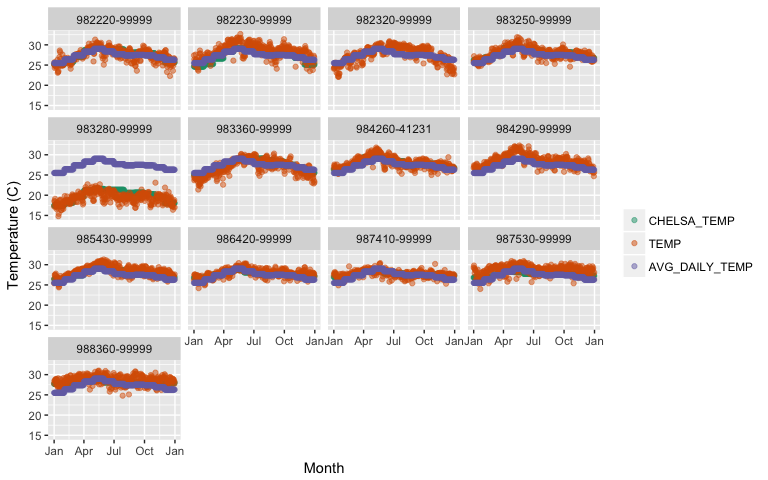
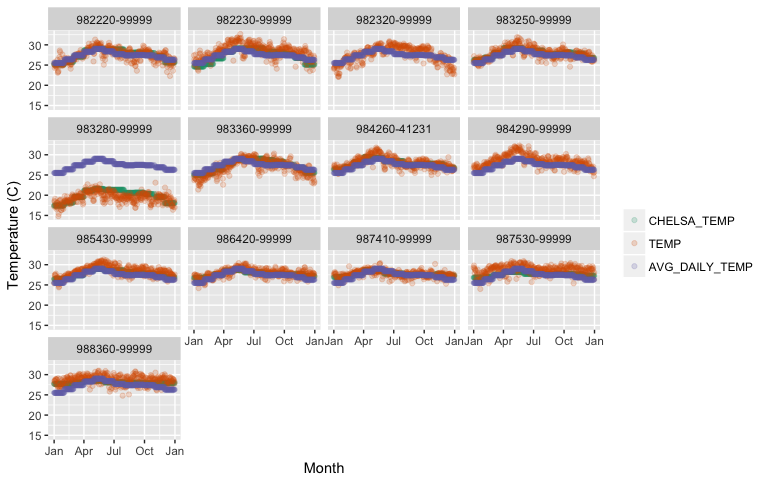
Rebuild README.md

diff --git a/README.md b/README.md
@@ -16,24 +16,43 @@ version](http://www.r-pkg.org/badges/version/GSODR)](https://cran.r-project.org/
 Introduction to GSODR
 =====================
 
-The GSODR package is an R package that provides a function that
-automates downloading and cleaning of data from the "[Global Surface
-Summary of the Day
-(GSOD)](https://data.noaa.gov/dataset/global-surface-summary-of-the-day-gsod)"
-weather station data provided by the US National Climatic Data Center
-(NCDC). Data are formatted for easy use in R, returned as a `data.frame`
-object in R summarising each year by station, with options to save as a
-Comma Separated Value (CSV) file or as a spatial GeoPackage (GPKG) file,
-implemented by most major GIS softwares.
+The GSOD or [Global Surface Summary of the Day
+(GSOD)](https://data.noaa.gov/dataset/global-surface-summary-of-the-day-gsod)
+data provided by the US National Climatic Data Center (NCDC) are a
+valuable source of weather data with global coverage. However, the data
+files are cumbersome and difficult to work with. The GSODR package aims
+to make it easy to find, tranfer and format the data you need for use in
+analysis. The GSODR package provides three main functions for
+facilitating this:
 
-Station files are individually checked for number of missing days to
-assure data quality, stations with too many missing observations are
-omitted. All units are converted to International System of Units (SI),
-e.g., inches to millimetres and Fahrenheit to Celsius.
+-   `get_GSOD` - the main function that will query and transfer files
+    from the FTP server, reformat them and return a data.frame in R or
+    save a file to disk  
+-   `reformat_GSOD` - the workhorse, this function takes individual
+    station files on the local disk and reformats them returning a
+    data.frame in R  
+-   `nearest_stations` - this function returns a dataframe containing a
+    list of stations and their metadata that fall within the given
+    radius of a point  
+    specified by the user
+
+When reformatting data either with `get_GSOD` or `reformat_GSOD`, all
+units are converted to International System of Units (SI), e.g., inches
+to millimetres and Fahrenheit to Celsius. File output can be saved as a
+Comma Separated Value (CSV) file or in a spatial GeoPackage (GPKG) file,
+implemented by most major GIS software, summarising each year by
+station, which also includes vapour pressure and relative humidity
+variables calculated from existing data in GSOD.
 
 Additional data are calculated by this R package using the original data
 and included in the final data. These include vapour pressure (ea and
 es) and relative humidity.
+
+For more information see the description of the data provided by NCDC,
+<http://www7.ncdc.noaa.gov/CDO/GSOD_DESC.txt>.
+
+Other Sources of Weather Data
+-----------------------------
 
 There are several other sources of weather data and ways of retrieving
 them through R. In particular, the excellent
@@ -95,53 +114,57 @@ library(GSODR)
 
 Tbar <- get_GSOD(years = 2010, station = "955510-99999")
 #> 
-#> Downloading the station file(s) now.
+#> Checking requested station file for availability on server.
+#> Starting data file processing
 #> 
-#> Finished downloading file. Parsing the station file(s) now.
+  |                                                                       
+  |                                                                 |   0%
+  |                                                                       
+  |=================================================================| 100%
 
 head(Tbar)
-#>     USAF  WBAN        STNID          STN_NAME CTRY STATE CALL    LAT
-#> 1 955510 99999 955510-99999 TOOWOOMBA AIRPORT   AS  <NA> <NA> -27.55
-#> 2 955510 99999 955510-99999 TOOWOOMBA AIRPORT   AS  <NA> <NA> -27.55
-#> 3 955510 99999 955510-99999 TOOWOOMBA AIRPORT   AS  <NA> <NA> -27.55
-#> 4 955510 99999 955510-99999 TOOWOOMBA AIRPORT   AS  <NA> <NA> -27.55
-#> 5 955510 99999 955510-99999 TOOWOOMBA AIRPORT   AS  <NA> <NA> -27.55
-#> 6 955510 99999 955510-99999 TOOWOOMBA AIRPORT   AS  <NA> <NA> -27.55
-#>       LON ELEV_M ELEV_M_SRTM_90m    BEGIN      END YEARMODA YEAR MONTH DAY
-#> 1 151.917    642             635 19980301 20161021 20100101 2010    01  01
-#> 2 151.917    642             635 19980301 20161021 20100102 2010    01  02
-#> 3 151.917    642             635 19980301 20161021 20100103 2010    01  03
-#> 4 151.917    642             635 19980301 20161021 20100104 2010    01  04
-#> 5 151.917    642             635 19980301 20161021 20100105 2010    01  05
-#> 6 151.917    642             635 19980301 20161021 20100106 2010    01  06
-#>   YDAY TEMP TEMP_CNT DEWP DEWP_CNT    SLP SLP_CNT   STP STP_CNT VISIB
-#> 1    1 21.2        8 17.9        8 1013.4       8 942.0       8    NA
-#> 2    2 23.2        8 19.4        8 1010.5       8 939.3       8    NA
-#> 3    3 21.4        8 18.9        8 1012.3       8 940.9       8  14.3
-#> 4    4 18.9        8 16.4        8 1015.7       8 944.1       8  23.3
-#> 5    5 20.5        8 16.4        8 1015.5       8 944.0       8    NA
-#> 6    6 21.9        8 18.7        8 1013.7       8 942.3       8    NA
-#>   VISIB_CNT WDSP WDSP_CNT MXSPD GUST   MAX MAX_FLAG   MIN MIN_FLAG PRCP
-#> 1         0  2.2        8   6.7   NA 25.78          17.78           1.5
-#> 2         0  1.9        8   5.1   NA 26.50          19.11           0.3
-#> 3         6  3.9        8  10.3   NA 28.72          19.28        * 19.8
-#> 4         4  4.5        8  10.3   NA 24.11          16.89        *  1.0
-#> 5         0  3.9        8  10.8   NA 24.61          16.72           0.3
-#> 6         0  3.2        8   7.7   NA 26.78          17.50           0.0
-#>   PRCP_FLAG SNDP I_FOG I_RAIN_DRIZZLE I_SNOW_ICE I_HAIL I_THUNDER
-#> 1         G   NA     0              0          0      0         0
-#> 2         G   NA     0              0          0      0         0
-#> 3         G   NA     1              1          0      0         0
-#> 4         G   NA     0              0          0      0         0
-#> 5         G   NA     0              0          0      0         0
-#> 6         G   NA     1              0          0      0         0
-#>   I_TORNADO_FUNNEL  EA  ES   RH
-#> 1                0 2.1 2.5 84.0
-#> 2                0 2.3 2.8 82.1
-#> 3                0 2.2 2.5 88.0
-#> 4                0 1.9 2.2 86.4
-#> 5                0 1.9 2.4 79.2
-#> 6                0 2.2 2.6 84.6
+#>    WBAN        STNID          STN_NAME CTRY STATE CALL    LAT     LON
+#> 1 99999 955510-99999 TOOWOOMBA AIRPORT   AS  <NA> <NA> -27.55 151.917
+#> 2 99999 955510-99999 TOOWOOMBA AIRPORT   AS  <NA> <NA> -27.55 151.917
+#> 3 99999 955510-99999 TOOWOOMBA AIRPORT   AS  <NA> <NA> -27.55 151.917
+#> 4 99999 955510-99999 TOOWOOMBA AIRPORT   AS  <NA> <NA> -27.55 151.917
+#> 5 99999 955510-99999 TOOWOOMBA AIRPORT   AS  <NA> <NA> -27.55 151.917
+#> 6 99999 955510-99999 TOOWOOMBA AIRPORT   AS  <NA> <NA> -27.55 151.917
+#>   ELEV_M ELEV_M_SRTM_90m    BEGIN      END YEARMODA YEAR MONTH DAY YDAY
+#> 1    642             635 19980301 20161121 20100101 2010    01  01    1
+#> 2    642             635 19980301 20161121 20100102 2010    01  02    2
+#> 3    642             635 19980301 20161121 20100103 2010    01  03    3
+#> 4    642             635 19980301 20161121 20100104 2010    01  04    4
+#> 5    642             635 19980301 20161121 20100105 2010    01  05    5
+#> 6    642             635 19980301 20161121 20100106 2010    01  06    6
+#>   TEMP TEMP_CNT DEWP DEWP_CNT    SLP SLP_CNT   STP STP_CNT VISIB VISIB_CNT
+#> 1 21.2        8 17.9        8 1013.4       8 942.0       8    NA         0
+#> 2 23.2        8 19.4        8 1010.5       8 939.3       8    NA         0
+#> 3 21.4        8 18.9        8 1012.3       8 940.9       8  14.3         6
+#> 4 18.9        8 16.4        8 1015.7       8 944.1       8  23.3         4
+#> 5 20.5        8 16.4        8 1015.5       8 944.0       8    NA         0
+#> 6 21.9        8 18.7        8 1013.7       8 942.3       8    NA         0
+#>   WDSP WDSP_CNT MXSPD GUST   MAX MAX_FLAG   MIN MIN_FLAG PRCP PRCP_FLAG
+#> 1  2.2        8   6.7   NA 25.78          17.78           1.5         G
+#> 2  1.9        8   5.1   NA 26.50          19.11           0.3         G
+#> 3  3.9        8  10.3   NA 28.72          19.28        * 19.8         G
+#> 4  4.5        8  10.3   NA 24.11          16.89        *  1.0         G
+#> 5  3.9        8  10.8   NA 24.61          16.72           0.3         G
+#> 6  3.2        8   7.7   NA 26.78          17.50           0.0         G
+#>   SNDP I_FOG I_RAIN_DRIZZLE I_SNOW_ICE I_HAIL I_THUNDER I_TORNADO_FUNNEL
+#> 1   NA     0              0          0      0         0                0
+#> 2   NA     0              0          0      0         0                0
+#> 3   NA     1              1          0      0         0                0
+#> 4   NA     0              0          0      0         0                0
+#> 5   NA     0              0          0      0         0                0
+#> 6   NA     1              0          0      0         0                0
+#>    EA  ES   RH
+#> 1 2.1 2.5 84.0
+#> 2 2.3 2.8 82.1
+#> 3 2.2 2.5 88.0
+#> 4 1.9 2.2 86.4
+#> 5 1.9 2.4 79.2
+#> 6 2.2 2.6 84.6
 ```
 
 #### Example 2 - Download GSOD data and generate agroclimatology files
@@ -149,30 +172,28 @@ head(Tbar)
 For years 2010 and 2011, download data and create the files,
 GSOD-agroclimatology-2010.csv and GSOD-agroclimatology-2011.csv, in the
 user's home directory with a maximum of five missing days per weather
-station allowed. Use parallel processing to run the process more
-quickly.
+station allowed.
 
 ``` r
 
 get_GSOD(years = 2010:2011, dsn = "~/", filename = "GSOD-agroclimatology",
-         agroclimatology = TRUE, max_missing = 5, threads = 3)
+         agroclimatology = TRUE, max_missing = 5)
 ```
 
-#### Example 3 - Download data for a single country and plot it
+#### Example 3 - Download and plot data for a single country
 
 Download data for Philippines for year 2010 and generate a spatial, year
-summary file, PHL-2010.gpkg, in the user's home directory with a maximum
-of five missing days per station allowed and no CSV file.
+summary file, PHL-2010.gpkg, in the user's home directory.
 
 ``` r
-get_GSOD(years = 2010, country = "Philippines", dsn = "~/", filename = "PHL",
-         GPKG = TRUE, CSV = FALSE, threads = 2)
+get_GSOD(years = 2010, country = "Philippines", dsn = "~/",
+         filename = "PHL-2010", GPKG = TRUE, max_missing = 5)
 ```
 
 ``` r
 library(rgdal)
 #> Loading required package: sp
-#> rgdal: version: 1.1-10, (SVN revision 622)
+#> rgdal: version: 1.2-4, (SVN revision 643)
 #>  Geospatial Data Abstraction Library extensions to R successfully loaded
 #>  Loaded GDAL runtime: GDAL 1.11.5, released 2016/07/01
 #>  Path to GDAL shared files: /usr/local/Cellar/gdal/1.11.5_1/share/gdal
@@ -188,7 +209,7 @@ layers <- ogrListLayers(dsn = path.expand("~/PHL-2010.gpkg"))
 pnts <- readOGR(dsn = path.expand("~/PHL-2010.gpkg"), layers[1])
 #> OGR data source with driver: GPKG 
 #> Source: "/Users/asparks/PHL-2010.gpkg", layer: "GSOD"
-#> with 2190 features
+#> with 4703 features
 #> It has 46 fields
 
 # Plot results in Google Earth as a spacetime object:
@@ -249,7 +270,7 @@ df_melt <- na.omit(melt(temp[, c("STNID", "DATE", "CHELSA_TEMP", "TEMP", "AVG_DA
                         id = c("DATE", "STNID")))
 
 ggplot(df_melt, aes(x = DATE, y = value)) +
-  geom_point(aes(color = variable), alpha = 0.5) +
+  geom_point(aes(color = variable), alpha = 0.2) +
   scale_x_date(date_labels = "%b") +
   ylab("Temperature (C)") +
   xlab("Month") +
@@ -261,7 +282,7 @@ ggplot(df_melt, aes(x = DATE, y = value)) +
 ![Comparison of GSOD daily values and average monthly values with CHELSA
 climate monthly values](README-example_3.2-1.png)
 
-### Example 4 - Finding stations within a given radius and download them
+#### Example 4 - Finding stations within a given radius and download them
 
 GSODR provides a function, `nearest_stations`, which will return a list
 of stations in the GSOD data set that are within a specified radius
@@ -274,74 +295,10 @@ decimal degrees.
 n <- nearest_stations(LAT = -27.5598, LON = 151.9507, distance = 50)
 
 n
-#> [1] "945510-99999" "945520-99999" "945620-99999" "949999-00170"
-#> [5] "949999-00183" "955510-99999"
 
-toowoomba <- get_GSOD(years = 2015, station = n, threads = 3)
-#> This station, 945510-99999, only provides data for years 1956 to 2012.
-#> This station, 949999-00170, only provides data for years 1971 to 1984.
-#> This station, 949999-00183, only provides data for years 1983 to 1984.
-#> 
-#> Downloading the station file(s) now.
-#> 
-#> Finished downloading file. Parsing the station file(s) now.
-#> A file corresponding to station,ftp://ftp.ncdc.noaa.gov/pub/data/gsod/2015/945510-99999-2015.op.gzwas not found on
-#>                       the server. Any others requested will be processed.
-#> A file corresponding to station,ftp://ftp.ncdc.noaa.gov/pub/data/gsod/2015/949999-00170-2015.op.gzwas not found on
-#>                       the server. Any others requested will be processed.
-#> A file corresponding to station,ftp://ftp.ncdc.noaa.gov/pub/data/gsod/2015/949999-00183-2015.op.gzwas not found on
-#>                       the server. Any others requested will be processed.
+toowoomba <- get_GSOD(years = 2015, station = n)
 
 str(toowoomba)
-#> 'data.frame':    1094 obs. of  48 variables:
-#>  $ USAF            : chr  "945520" "945520" "945520" "945520" ...
-#>  $ WBAN            : chr  "99999" "99999" "99999" "99999" ...
-#>  $ STNID           : chr  "945520-99999" "945520-99999" "945520-99999" "945520-99999" ...
-#>  $ STN_NAME        : chr  "OAKEY" "OAKEY" "OAKEY" "OAKEY" ...
-#>  $ CTRY            : chr  "AS" "AS" "AS" "AS" ...
-#>  $ STATE           : chr  NA NA NA NA ...
-#>  $ CALL            : chr  "YBOK" "YBOK" "YBOK" "YBOK" ...
-#>  $ LAT             : num  -27.4 -27.4 -27.4 -27.4 -27.4 ...
-#>  $ LON             : num  152 152 152 152 152 ...
-#>  $ ELEV_M          : num  407 407 407 407 407 ...
-#>  $ ELEV_M_SRTM_90m : num  404 404 404 404 404 404 404 404 404 404 ...
-#>  $ BEGIN           : num  19730430 19730430 19730430 19730430 19730430 ...
-#>  $ END             : num  20161021 20161021 20161021 20161021 20161021 ...
-#>  $ YEARMODA        : chr  "20150101" "20150102" "20150103" "20150104" ...
-#>  $ YEAR            : chr  "2015" "2015" "2015" "2015" ...
-#>  $ MONTH           : chr  "01" "01" "01" "01" ...
-#>  $ DAY             : chr  "01" "02" "03" "04" ...
-#>  $ YDAY            : num  1 2 3 4 5 6 7 8 9 10 ...
-#>  $ TEMP            : num  24.9 24.3 22.3 23 22.5 22.6 21.8 22.6 24.6 24.9 ...
-#>  $ TEMP_CNT        : int  24 24 24 24 24 24 24 24 24 24 ...
-#>  $ DEWP            : num  18.4 18.2 17.4 16.3 17.7 14.3 15.7 16.4 16.4 16.4 ...
-#>  $ DEWP_CNT        : int  24 24 24 24 24 24 24 24 24 24 ...
-#>  $ SLP             : num  1014 1017 1017 1014 1015 ...
-#>  $ SLP_CNT         : int  16 16 16 16 16 16 16 16 16 16 ...
-#>  $ STP             : num  968 971 971 969 969 ...
-#>  $ STP_CNT         : int  16 16 16 16 16 16 16 16 16 16 ...
-#>  $ VISIB           : num  10 10 10 10 10 10 NA NA 10 NA ...
-#>  $ VISIB_CNT       : int  8 8 4 5 7 4 0 0 4 0 ...
-#>  $ WDSP            : num  2.3 2.8 2.8 2.3 3 3.5 3.1 2.5 2.9 2.7 ...
-#>  $ WDSP_CNT        : int  24 24 24 24 24 24 24 24 24 24 ...
-#>  $ MXSPD           : num  8.2 9.8 10.3 7.2 9.8 9.8 9.8 8.8 8.2 8.2 ...
-#>  $ GUST            : num  NA NA NA NA NA NA NA NA NA 12.4 ...
-#>  $ MAX             : num  31.8 31 27.3 29.3 27.6 ...
-#>  $ MAX_FLAG        : chr  "" "" "" "" ...
-#>  $ MIN             : num  18.9 18.2 17.7 16.8 16.4 ...
-#>  $ MIN_FLAG        : chr  "*" "" "*" "*" ...
-#>  $ PRCP            : num  0 0 0 0 0 0 0 0 0 0 ...
-#>  $ PRCP_FLAG       : chr  "G" "G" "G" "G" ...
-#>  $ SNDP            : num  NA NA NA NA NA NA NA NA NA NA ...
-#>  $ I_FOG           : int  0 0 0 0 0 0 0 0 0 0 ...
-#>  $ I_RAIN_DRIZZLE  : int  0 0 0 0 0 0 0 0 0 0 ...
-#>  $ I_SNOW_ICE      : int  0 0 0 0 0 0 0 0 0 0 ...
-#>  $ I_HAIL          : int  0 0 0 0 0 0 0 0 0 0 ...
-#>  $ I_THUNDER       : int  0 0 0 0 0 0 0 0 0 0 ...
-#>  $ I_TORNADO_FUNNEL: int  0 0 0 0 0 0 0 0 0 0 ...
-#>  $ EA              : num  2.1 2.1 2 1.9 2 1.6 1.8 1.9 1.9 1.9 ...
-#>  $ ES              : num  3.1 3 2.7 2.8 2.7 2.7 2.6 2.7 3.1 3.1 ...
-#>  $ RH              : num  67.7 70 74.1 67.9 74.1 59.3 69.2 70.4 61.3 61.3 ...
 ```
 
 Final data format and contents
